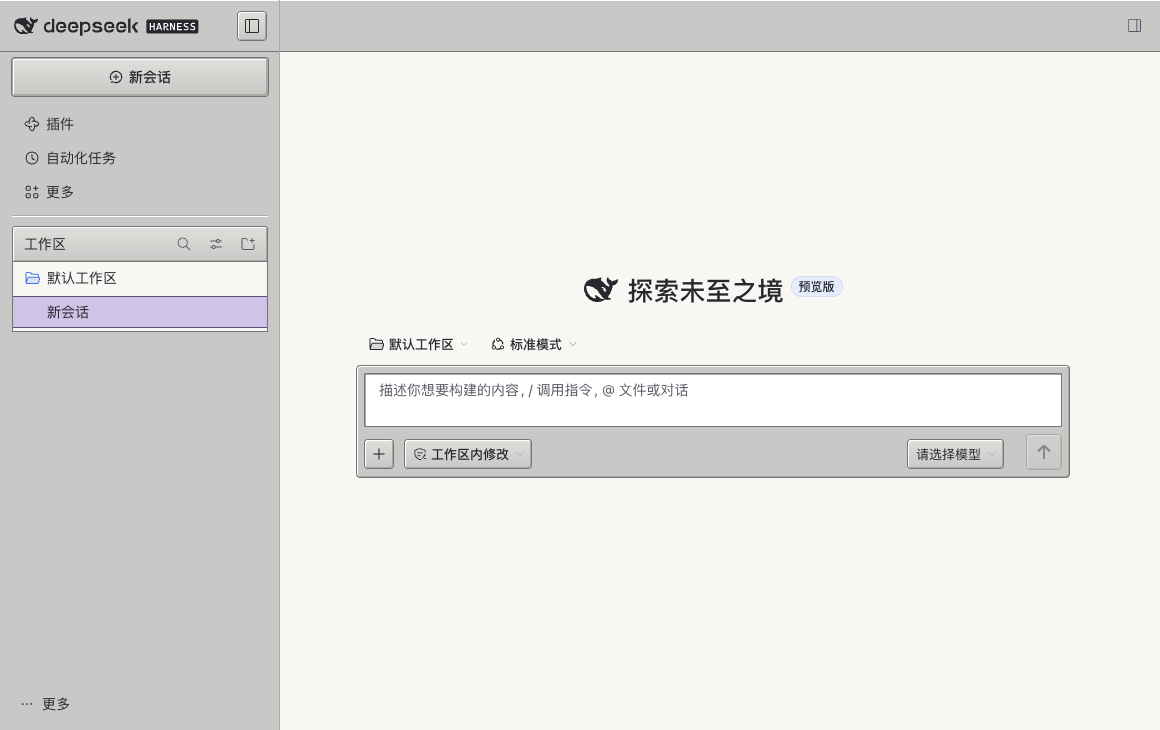
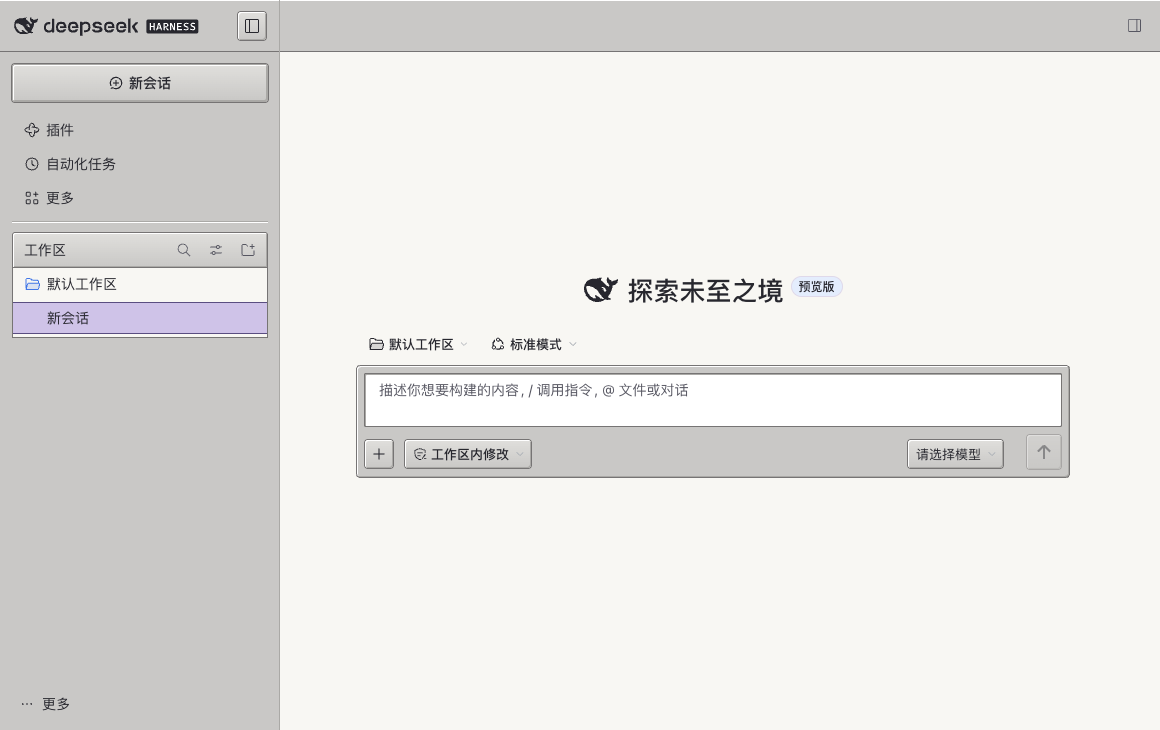
Align collapsed sidebar rail and balance new-chat spacing on web

Changed region(s): [[0.0, 0.0603, 0.2483, 0.4822]]

diff --git a/client.js b/client.js
@@ -2,7 +2,7 @@
 window.__ModuleLoader__.load({
   id: 'dsh-platinum-theme',
   factory() {
-    const css = "html[data-dsh-platinum] body {\n  --platinum-paper: #f8f7f3;\n  --platinum-panel: #c9c8c6;\n  --platinum-raised: #e0dfdc;\n  --platinum-composer: #fff;\n  --platinum-rule: #aaa9a6;\n  --platinum-edge: #767474;\n  --platinum-glint: #fff;\n  --platinum-ink: #27272e;\n  --platinum-muted: #565661;\n  --platinum-accent: #524777;\n  --platinum-action: #5a4e81;\n  --platinum-button: #5a4e81;\n  --platinum-accent-hover: #493d70;\n  --platinum-selection: #cfc3e8;\n  --platinum-hover: #dfd9ea;\n  --platinum-on-accent: #fff;\n  --platinum-groove: repeating-linear-gradient(to bottom,\n    var(--platinum-edge) 0 1px, var(--platinum-glint) 1px 2px, transparent 2px 3px);\n  --platinum-face: linear-gradient(180deg, var(--platinum-raised), var(--platinum-panel));\n  --platinum-bevel: inset 1px 1px var(--platinum-glint), inset -1px -1px var(--platinum-rule);\n  --dsh-scrollbar-width: 12px;\n}\n\nhtml[data-dsh-platinum] body[data-ds-dark-theme] {\n  --platinum-paper: #252528;\n  --platinum-panel: #333338;\n  --platinum-raised: #434349;\n  --platinum-composer: #292b30;\n  --platinum-rule: #505059;\n  --platinum-edge: #72717b;\n  --platinum-glint: #595963;\n  --platinum-ink: #eeedf0;\n  --platinum-muted: #babac6;\n  --platinum-accent: #c1b5e2;\n  --platinum-action: #a598c5;\n  --platinum-button: #675686;\n  --platinum-accent-hover: #746298;\n  --platinum-selection: #514364;\n  --platinum-hover: #36333f;\n}\n\nhtml[data-dsh-platinum] {\n  & header[data-window-drag]:has([data-conversation-header-leading]),\n  & [data-window-drag]:has(> [data-sidebar-toggle]) {\n    background: var(--platinum-panel);\n    border-bottom: 1px solid var(--platinum-edge);\n    box-shadow: inset 0 1px var(--platinum-glint);\n  }\n\n  /* Both macOS desktop and web sidebars share a 52px title baseline,\n     extending to match the conversation tab bar height when present. */\n  & header[data-window-drag]:has([data-conversation-header-leading]) {\n    min-height: 52px;\n    align-content: start;\n  }\n\n  /* Extend the macOS strip to the tab baseline and keep its toggle at title-row height. */\n  &[data-platform=\"darwin\"]:has([data-conversation-tabs]) [data-window-drag]:has(> [data-sidebar-toggle]) {\n    --platinum-sidebar-strip-extra: max(0px, calc(var(--platinum-conversation-header-height, 52px) - 52px));\n    height: calc(52px + var(--platinum-sidebar-strip-extra));\n    padding-bottom: calc(2px + var(--platinum-sidebar-strip-extra));\n\n    & + [data-window-drag] {\n      margin-top: 0;\n    }\n  }\n\n  &:not([data-platform=\"darwin\"]) [data-window-drag]:has(> [data-sidebar-toggle]) {\n    box-sizing: border-box;\n    height: var(--platinum-conversation-header-height, 52px);\n    margin: -6px calc(-1 * var(--dsh-sidebar-inline-padding, 8px)) 6px;\n    padding: 0 calc(var(--dsh-sidebar-inline-padding, 8px) + 6px);\n    align-items: center;\n  }\n\n  /* The flexible title group has room for the ridges after its real controls,\n     including blank conversations before the breadcrumb nav mounts. */\n  & header[data-window-drag] :is(\n    :has(> nav[aria-label]):has(+ * + [data-conversation-header-corner]),\n    [data-conversation-header-leading] + :not([data-conversation-header-corner]):has(+ [data-conversation-header-corner], + * + [data-conversation-header-corner]),\n    [data-conversation-header-leading]:has(+ [data-conversation-header-corner])\n  ) {\n    display: flex;\n    align-items: center;\n    flex: 1 1 0;\n    min-width: 0;\n\n    & > nav {\n      font-family: Geneva, Chicago, Tahoma, sans-serif;\n      font-weight: 700;\n    }\n\n    &::after {\n      content: '';\n      flex: 1 1 0;\n      min-width: 0;\n      height: 10px;\n      margin-inline: 4px 12px;\n      background: var(--platinum-groove);\n      pointer-events: none;\n    }\n  }\n\n  & [data-conversation-tabs] {\n    gap: 3px;\n\n    & [role=\"tab\"] {\n      margin: 0;\n      min-height: 25px;\n      padding: 3px 11px 4px;\n      border: 1px solid var(--platinum-edge);\n      border-bottom: 0;\n      border-radius: 4px 4px 0 0;\n      background: var(--platinum-face);\n      box-shadow: var(--platinum-bevel);\n      color: var(--platinum-ink);\n      font-weight: 600;\n    }\n\n    & [role=\"tab\"][aria-selected=\"true\"] {\n      background: var(--platinum-paper);\n      box-shadow: inset 1px 1px var(--platinum-glint), 0 1px var(--platinum-paper);\n      color: var(--platinum-accent);\n    }\n\n    & [role=\"tab\"]::after {\n      content: none;\n    }\n  }\n\n  & [data-sidebar-scrollport] {\n    & > nav {\n      margin-inline: 4px;\n      padding-bottom: 7px;\n      border-bottom: 1px solid var(--platinum-rule);\n      box-shadow: 0 1px var(--platinum-glint);\n    }\n\n    & [data-sidebar-workspace-header] {\n      margin-inline: 4px;\n      /* The native workspace toolbar otherwise extends into the sidebar gutter. */\n      margin-inline-end: 4px !important;\n      border: 1px solid var(--platinum-edge);\n      border-radius: 3px 3px 0 0;\n      box-shadow: var(--platinum-bevel);\n    }\n\n    & [data-sidebar-list-area] {\n      --dsh-scrollbar-width: 10px;\n      margin-right: 4px;\n      padding-right: 0;\n      scrollbar-gutter: auto;\n    }\n\n    & [role=\"tree\"] {\n      --dsh-sidebar-paint-inset: 0px;\n      margin-inline: 4px 0;\n      background: var(--platinum-paper);\n      border: 1px solid var(--platinum-edge);\n      border-top: 0;\n      padding-block-end: 3px;\n    }\n\n    & [role=\"treeitem\"] {\n      border-radius: 0;\n      padding-inline-end: 11px;\n    }\n  }\n\n  & [data-sidebar-scrollport] :is([aria-current=\"page\"], [aria-selected=\"true\"]) {\n    background: var(--platinum-selection);\n    border-radius: 0;\n    box-shadow: inset 0 1px var(--platinum-action), inset 0 -1px var(--platinum-action);\n  }\n\n  & [data-sidebar-workspace-header],\n  & [data-sidebar-toggle],\n  & [data-sidebar-opener],\n  & [data-slot=\"sidebar.session.action\"] button[aria-label],\n  & [data-composer-card] > :last-child button:not([role=\"menuitem\"]) {\n    background: var(--platinum-face);\n    color: var(--platinum-ink);\n    border-radius: 3px;\n    corner-shape: round;\n    box-shadow: 0 0 0 1px var(--platinum-edge), var(--platinum-bevel);\n  }\n\n  & :is([data-sidebar-toggle], [data-sidebar-opener], [data-slot=\"sidebar.session.action\"] button[aria-label], [data-composer-card] > :last-child button):active:not(:disabled) {\n    background: var(--platinum-selection);\n    box-shadow: inset 1px 1px var(--platinum-edge), inset -1px -1px var(--platinum-glint);\n  }\n\n  /* Classic Platinum default-button recessed outer ring for the primary send action. */\n  & [data-composer-card] > :last-child > :is(button:last-child, :last-child > button:last-child, :last-child > :last-child > button:last-child):not([role=\"menuitem\"]) {\n    box-shadow: 0 0 0 1px var(--platinum-edge), 0 0 0 2px var(--platinum-panel),\n      0 0 0 3px var(--platinum-rule), 1px 1px 0 3px var(--platinum-glint), var(--platinum-bevel);\n\n    &:not(:disabled) {\n      color: var(--platinum-accent);\n      box-shadow: 0 0 0 1px var(--platinum-action), 0 0 0 2px var(--platinum-panel),\n        0 0 0 3px var(--platinum-edge), 1px 1px 0 3px var(--platinum-glint), var(--platinum-bevel);\n    }\n\n    &:hover:not(:disabled) {\n      background: var(--platinum-hover);\n    }\n\n    &:active:not(:disabled) {\n      background: var(--platinum-selection);\n      box-shadow: 0 0 0 1px var(--platinum-action), 0 0 0 2px var(--platinum-panel),\n        0 0 0 3px var(--platinum-edge), 1px 1px 0 3px var(--platinum-glint),\n        inset 1px 1px var(--platinum-edge), inset -1px -1px var(--platinum-glint);\n    }\n  }\n\n  & [data-composer-card] {\n    background: var(--platinum-panel);\n    border-radius: 4px;\n    box-shadow: 0 0 0 1px var(--platinum-edge), var(--platinum-bevel);\n    gap: 9px;\n\n    & > [data-input-scroll] {\n      margin-inline: 8px;\n      background: var(--platinum-composer);\n      border-radius: 1px;\n      box-shadow: 0 0 0 1px var(--platinum-edge), inset 1px 1px var(--platinum-rule),\n        inset -1px -1px var(--platinum-glint);\n    }\n\n    & > [data-input-scroll]:focus-within {\n      outline: 1px solid var(--platinum-accent);\n    }\n\n    & [data-composer-placeholder] {\n      color: var(--platinum-muted);\n    }\n  }\n\n  & [data-composer-dock]:not(:empty) {\n    box-sizing: border-box;\n    width: 100%;\n    max-width: var(--dsh-composer-card-max-width, 100%);\n    border: 1px solid var(--platinum-rule);\n    border-top: 0;\n    background: var(--platinum-raised);\n    box-shadow: inset 0 1px var(--platinum-glint);\n  }\n\n  & :is([role=\"dialog\"], [role=\"menu\"], [role=\"listbox\"]):not([data-shortcut-modal=\"sidebar\"]) {\n    border-radius: 3px;\n    box-shadow: 0 0 0 1px var(--platinum-edge), var(--platinum-bevel), 2px 2px rgb(0 0 0 / 24%);\n  }\n\n  & :is(button[class*=\"_outline_\"], button[class*=\"secondaryButton\"]):not([role=\"switch\"], [role=\"tab\"], [role=\"menuitem\"]) {\n    border: none;\n    border-radius: 3px;\n    background: var(--platinum-face);\n    color: var(--platinum-ink);\n    box-shadow: 0 0 0 1px var(--platinum-edge), var(--platinum-bevel);\n\n    &:hover:not(:disabled) {\n      background: var(--platinum-hover);\n    }\n\n    &:active:not(:disabled) {\n      background: var(--platinum-selection);\n      box-shadow: 0 0 0 1px var(--platinum-edge), inset 1px 1px var(--platinum-edge), inset -1px -1px var(--platinum-glint);\n    }\n  }\n\n  & :is(button[class*=\"_primary_\"], button[class*=\"primaryButton\"]):not([class*=\"dangerButton\"], [role=\"switch\"], [role=\"tab\"], [role=\"menuitem\"]) {\n    border: none;\n    border-radius: 3px;\n    background: linear-gradient(180deg, color-mix(in srgb, var(--platinum-button) 88%, #fff), var(--platinum-button));\n    color: var(--platinum-on-accent);\n    box-shadow: 0 0 0 1px var(--platinum-action), 0 0 0 2px var(--platinum-panel),\n      0 0 0 3px var(--platinum-edge), 1px 1px 0 3px var(--platinum-glint),\n      inset 1px 1px rgb(255 255 255 / 26%), inset -1px -1px rgb(0 0 0 / 24%);\n\n    &:hover:not(:disabled) {\n      background: var(--platinum-accent-hover);\n    }\n\n    &:active:not(:disabled) {\n      background: var(--platinum-accent-hover);\n      box-shadow: 0 0 0 1px var(--platinum-action), 0 0 0 2px var(--platinum-panel),\n        0 0 0 3px var(--platinum-edge), inset 1px 1px rgb(0 0 0 / 35%), inset -1px -1px rgb(255 255 255 / 18%);\n    }\n  }\n}\n\nhtml[data-dsh-platinum] [data-shortcut-modal=\"settings\"] {\n  --dsw-alias-settings-card-fill: var(--platinum-raised);\n  --dsw-alias-settings-card-stroke: var(--platinum-edge);\n  --dsw-radius-md: 3px;\n  --dsw-radius-xl: 3px;\n\n  & > [id]:first-child,\n  & > nav + div {\n    background: var(--platinum-face);\n    border-bottom: 1px solid var(--platinum-edge);\n    box-shadow: inset 0 1px var(--platinum-glint);\n  }\n\n  & > [id]:first-child {\n    display: flex;\n    align-items: center;\n    gap: 10px;\n    min-width: 0;\n    padding: 7px 12px;\n    font-weight: 700;\n\n    &::after {\n      content: '';\n      flex: 1 1 auto;\n      height: 10px;\n      background: var(--platinum-groove);\n      pointer-events: none;\n    }\n  }\n\n  & > nav + div {\n    height: auto;\n    align-items: center;\n    padding: 5px 9px;\n  }\n\n  & > nav + div button,\n  & section:has([data-avatar-status]) a {\n    border-radius: 3px;\n    box-shadow: 0 0 0 1px var(--platinum-edge), var(--platinum-bevel);\n  }\n\n  & > nav + div button {\n    background: var(--platinum-face);\n  }\n\n  & > nav {\n    margin: 9px 5px 11px 10px;\n    padding: 2px;\n    border: 1px solid var(--platinum-edge);\n    background: var(--platinum-paper);\n    box-shadow: inset 1px 1px var(--platinum-rule);\n  }\n\n  & > nav > div {\n    gap: 0;\n  }\n\n  & > nav button {\n    min-height: 31px;\n    height: auto;\n    padding-block: 4px;\n    border-radius: 0;\n  }\n\n  & > nav button[aria-current=\"true\"] {\n    background: var(--platinum-selection);\n    box-shadow: inset 0 1px var(--platinum-action), inset 0 -1px var(--platinum-action);\n    font-weight: 600;\n  }\n\n  & > :last-child {\n    margin: 9px 10px 11px 5px;\n    padding: 12px;\n    border: 1px solid var(--platinum-edge);\n    background: var(--platinum-paper);\n    box-shadow: inset 1px 1px var(--platinum-rule);\n  }\n\n  & section:has([data-avatar-status]) > div:where(:first-child, :last-child) {\n    border-radius: 3px;\n    box-shadow: var(--platinum-bevel);\n  }\n\n  & section:has([data-avatar-status]) a {\n    padding-inline: 10px;\n  }\n\n  & section:has([data-avatar-status]) a:only-of-type,\n  & section:has([data-avatar-status]) a:has(+ a) {\n    background: var(--platinum-face);\n  }\n\n  & section:has([data-avatar-status]) a:only-of-type {\n    padding-block: 4px;\n  }\n\n  & section:has([data-avatar-status]) a + a {\n    color: var(--platinum-on-accent);\n  }\n\n  & button[class*=\"addButton\"] {\n    border: 1px dashed var(--platinum-edge);\n    border-radius: 3px;\n    background: var(--platinum-paper);\n    box-shadow: inset 1px 1px var(--platinum-rule);\n\n    &:hover:not(:disabled) {\n      background: var(--platinum-hover);\n    }\n  }\n\n  & button[class*=\"_selector\"],\n  & > :last-child button[class*=\"_button\"] {\n    border: none;\n    border-radius: 3px;\n    background: var(--platinum-face);\n    color: var(--platinum-ink);\n    box-shadow: 0 0 0 1px var(--platinum-edge), var(--platinum-bevel);\n\n    &:hover:not(:disabled) {\n      background: var(--platinum-hover);\n    }\n\n    &:is(:active, [aria-expanded=\"true\"]):not(:disabled) {\n      background: var(--platinum-selection);\n      box-shadow: 0 0 0 1px var(--platinum-edge), inset 1px 1px var(--platinum-edge), inset -1px -1px var(--platinum-glint);\n    }\n  }\n\n  & [class*=\"_stepper\"] {\n    border-radius: 2px;\n    background: var(--platinum-composer);\n    box-shadow: inset 1px 1px var(--platinum-rule), 0 0 0 1px var(--platinum-edge);\n  }\n\n  & button[class*=\"_arrow\"] {\n    border-radius: 2px;\n    background: var(--platinum-face);\n    box-shadow: 0 0 0 1px var(--platinum-edge), var(--platinum-bevel);\n\n    &:hover:not(:disabled) {\n      background: var(--platinum-hover);\n    }\n  }\n\n  & button[class*=\"_expander\"] {\n    border-radius: 3px;\n\n    &:hover:not(:disabled) {\n      background: var(--platinum-hover);\n    }\n  }\n}\n\nhtml[data-dsh-platinum] {\n  & [data-sidebar-right-panel] {\n    & [data-dockkit-strip] {\n      background: var(--platinum-panel);\n      border-bottom: 1px solid var(--platinum-edge);\n      box-shadow: inset 0 1px var(--platinum-glint);\n    }\n\n    & [data-dockkit-tab] {\n      background: var(--platinum-face);\n      border-radius: 4px 4px 0 0;\n      box-shadow: 0 0 0 1px var(--platinum-edge), var(--platinum-bevel);\n    }\n\n    & [data-dockkit-tab][aria-selected=\"true\"] {\n      background: var(--platinum-paper);\n      color: var(--platinum-accent);\n    }\n\n    & :is([data-dockkit-add-tab], [data-dockkit-split-button], [data-sidebar-right-mode], [data-sidebar-right-toggle]) {\n      background: var(--platinum-face);\n      border-radius: 3px;\n      box-shadow: 0 0 0 1px var(--platinum-edge), var(--platinum-bevel);\n    }\n  }\n\n  & [data-sidebar-right-guide] :is(button, [role=\"button\"]):not([role=\"menuitem\"]) {\n    background: var(--platinum-face);\n    border-radius: 3px;\n    box-shadow: var(--platinum-bevel);\n\n    &:hover { background: var(--platinum-hover); }\n    &:active { box-shadow: inset 1px 1px var(--platinum-edge); }\n  }\n\n  & :is([data-files-page], [data-files-root]) {\n    & > :has(> :is([data-files-path], [data-files-reload])) {\n      background: var(--platinum-raised);\n      box-shadow: inset 0 -1px var(--platinum-rule);\n    }\n\n    & :is([data-files-reload], [data-files-auto-refresh], [data-files-search-toggle]) {\n      background: var(--platinum-face);\n      border-radius: 3px;\n      box-shadow: var(--platinum-bevel);\n    }\n\n    & :has(> [data-files-search]) {\n      background: var(--platinum-composer);\n      border-radius: 2px;\n      box-shadow: inset 1px 1px var(--platinum-rule), 0 0 0 1px var(--platinum-edge);\n    }\n\n    & :is([data-files-search], input[type=\"search\"])::placeholder { color: var(--platinum-muted); }\n\n    & input[type=\"search\"]:not([data-files-search]) {\n      color: var(--platinum-ink);\n      background: var(--platinum-composer);\n      border-radius: 2px;\n      box-shadow: inset 1px 1px var(--platinum-rule), 0 0 0 1px var(--platinum-edge);\n    }\n\n    & [data-files-entry] > :first-child { border-radius: 0; }\n  }\n\n  & :is([data-plugin-header-part=\"tabs\"] [role=\"tablist\"], [data-testid=\"task-manager-page\"] [role=\"group\"]:has(> button[aria-pressed])) {\n    border-radius: 3px;\n    background: var(--platinum-panel);\n    box-shadow: inset 1px 1px var(--platinum-rule), 0 0 0 1px var(--platinum-edge);\n\n    & > button {\n      border-radius: 2px;\n\n      &[aria-pressed=\"true\"], &[aria-selected=\"true\"] {\n        background: var(--platinum-face);\n        color: var(--platinum-ink);\n        box-shadow: 0 0 0 1px var(--platinum-edge), var(--platinum-bevel);\n      }\n    }\n  }\n\n  & :is(input, textarea)::placeholder {\n    color: var(--platinum-muted);\n    opacity: 1;\n  }\n\n  & button[role=\"switch\"][aria-checked] {\n    border-radius: 3px;\n    box-shadow: inset 1px 1px var(--platinum-edge);\n\n    & > span {\n      border-radius: 2px;\n      background: var(--platinum-face);\n      box-shadow: var(--platinum-bevel);\n    }\n  }\n\n  & ::-webkit-scrollbar {\n    width: var(--dsh-scrollbar-width, 12px);\n    height: var(--dsh-scrollbar-width, 12px);\n  }\n\n  & ::-webkit-scrollbar-track {\n    background: var(--platinum-panel);\n    box-shadow: inset 1px 1px var(--platinum-edge), inset -1px -1px var(--platinum-glint),\n      inset 0 0 0 1px var(--platinum-rule);\n  }\n\n  & ::-webkit-scrollbar-thumb {\n    min-height: 24px;\n    min-width: 24px;\n    border: 1px solid var(--platinum-edge);\n    border-radius: 0;\n    background: var(--platinum-groove) center / 4px 7px no-repeat, var(--platinum-face);\n    box-shadow: var(--platinum-bevel);\n\n    &:horizontal {\n      background: linear-gradient(90deg, var(--platinum-raised), var(--platinum-panel));\n    }\n\n    &:hover {\n      background: var(--platinum-groove) center / 4px 7px no-repeat, var(--platinum-hover);\n\n      &:horizontal {\n        background: var(--platinum-hover);\n      }\n    }\n\n    &:active {\n      background: var(--platinum-groove) center / 4px 7px no-repeat, var(--platinum-selection);\n      box-shadow: inset 1px 1px var(--platinum-edge), inset -1px -1px var(--platinum-glint);\n\n      &:horizontal {\n        background: var(--platinum-selection);\n      }\n    }\n  }\n\n  & ::-webkit-scrollbar-corner {\n    background: var(--platinum-panel);\n    box-shadow: inset 1px 1px var(--platinum-edge);\n  }\n}\n\n@media (forced-colors: active) {\n  html[data-dsh-platinum] :is([data-composer-card], [role=\"dialog\"], [role=\"menu\"], [role=\"listbox\"]) {\n    outline: 1px solid CanvasText;\n  }\n}\n";
+    const css = "html[data-dsh-platinum] body {\n  --platinum-paper: #f8f7f3;\n  --platinum-panel: #c9c8c6;\n  --platinum-raised: #e0dfdc;\n  --platinum-composer: #fff;\n  --platinum-rule: #aaa9a6;\n  --platinum-edge: #767474;\n  --platinum-glint: #fff;\n  --platinum-ink: #27272e;\n  --platinum-muted: #565661;\n  --platinum-accent: #524777;\n  --platinum-action: #5a4e81;\n  --platinum-button: #5a4e81;\n  --platinum-accent-hover: #493d70;\n  --platinum-selection: #cfc3e8;\n  --platinum-hover: #dfd9ea;\n  --platinum-on-accent: #fff;\n  --platinum-groove: repeating-linear-gradient(to bottom,\n    var(--platinum-edge) 0 1px, var(--platinum-glint) 1px 2px, transparent 2px 3px);\n  --platinum-face: linear-gradient(180deg, var(--platinum-raised), var(--platinum-panel));\n  --platinum-bevel: inset 1px 1px var(--platinum-glint), inset -1px -1px var(--platinum-rule);\n  --dsh-scrollbar-width: 12px;\n}\n\nhtml[data-dsh-platinum] body[data-ds-dark-theme] {\n  --platinum-paper: #252528;\n  --platinum-panel: #333338;\n  --platinum-raised: #434349;\n  --platinum-composer: #292b30;\n  --platinum-rule: #505059;\n  --platinum-edge: #72717b;\n  --platinum-glint: #595963;\n  --platinum-ink: #eeedf0;\n  --platinum-muted: #babac6;\n  --platinum-accent: #c1b5e2;\n  --platinum-action: #a598c5;\n  --platinum-button: #675686;\n  --platinum-accent-hover: #746298;\n  --platinum-selection: #514364;\n  --platinum-hover: #36333f;\n}\n\nhtml[data-dsh-platinum] {\n  & header[data-window-drag]:has([data-conversation-header-leading]),\n  & [data-window-drag]:has(> [data-sidebar-toggle]) {\n    background: var(--platinum-panel);\n    border-bottom: 1px solid var(--platinum-edge);\n    box-shadow: inset 0 1px var(--platinum-glint);\n  }\n\n  /* Both macOS desktop and web sidebars share a 52px title baseline,\n     extending to match the conversation tab bar height when present. */\n  & header[data-window-drag]:has([data-conversation-header-leading]) {\n    min-height: 52px;\n    align-content: start;\n  }\n\n  /* Extend the macOS strip to the tab baseline and keep its toggle at title-row height. */\n  &[data-platform=\"darwin\"]:has([data-conversation-tabs]) [data-window-drag]:has(> [data-sidebar-toggle]) {\n    --platinum-sidebar-strip-extra: max(0px, calc(var(--platinum-conversation-header-height, 52px) - 52px));\n    height: calc(52px + var(--platinum-sidebar-strip-extra));\n    padding-bottom: calc(2px + var(--platinum-sidebar-strip-extra));\n\n    & + [data-window-drag] {\n      margin-top: 0;\n    }\n  }\n\n  &:not([data-platform=\"darwin\"]) [data-window-drag]:has(> [data-sidebar-toggle]) {\n    box-sizing: border-box;\n    height: var(--platinum-conversation-header-height, 52px);\n    margin: -6px calc(-1 * var(--dsh-sidebar-inline-padding, 8px)) 12px;\n    padding: 0 calc(var(--dsh-sidebar-inline-padding, 8px) + 6px);\n    align-items: center;\n  }\n\n  &:not([data-platform=\"darwin\"]) [class*=\"collapsed\"]:has(> button[data-sidebar-toggle]) {\n    position: relative;\n    padding-top: 0;\n\n    &::before {\n      content: '';\n      position: absolute;\n      inset: 0 0 auto;\n      height: var(--platinum-conversation-header-height, 52px);\n      background: var(--platinum-panel);\n      border-bottom: 1px solid var(--platinum-edge);\n      box-shadow: inset 0 1px var(--platinum-glint);\n      pointer-events: none;\n    }\n\n    & > button[data-sidebar-toggle] {\n      position: relative;\n      z-index: 1;\n      margin-top: 9px;\n      margin-bottom: calc(var(--platinum-conversation-header-height, 52px) - 52px + 18px);\n    }\n  }\n\n  /* The flexible title group has room for the ridges after its real controls,\n     including blank conversations before the breadcrumb nav mounts. */\n  & header[data-window-drag] :is(\n    :has(> nav[aria-label]):has(+ * + [data-conversation-header-corner]),\n    [data-conversation-header-leading] + :not([data-conversation-header-corner]):has(+ [data-conversation-header-corner], + * + [data-conversation-header-corner]),\n    [data-conversation-header-leading]:has(+ [data-conversation-header-corner])\n  ) {\n    display: flex;\n    align-items: center;\n    flex: 1 1 0;\n    min-width: 0;\n\n    & > nav {\n      font-family: Geneva, Chicago, Tahoma, sans-serif;\n      font-weight: 700;\n    }\n\n    &::after {\n      content: '';\n      flex: 1 1 0;\n      min-width: 0;\n      height: 10px;\n      margin-inline: 4px 12px;\n      background: var(--platinum-groove);\n      pointer-events: none;\n    }\n  }\n\n  & [data-conversation-tabs] {\n    gap: 3px;\n\n    & [role=\"tab\"] {\n      margin: 0;\n      min-height: 25px;\n      padding: 3px 11px 4px;\n      border: 1px solid var(--platinum-edge);\n      border-bottom: 0;\n      border-radius: 4px 4px 0 0;\n      background: var(--platinum-face);\n      box-shadow: var(--platinum-bevel);\n      color: var(--platinum-ink);\n      font-weight: 600;\n    }\n\n    & [role=\"tab\"][aria-selected=\"true\"] {\n      background: var(--platinum-paper);\n      box-shadow: inset 1px 1px var(--platinum-glint), 0 1px var(--platinum-paper);\n      color: var(--platinum-accent);\n    }\n\n    & [role=\"tab\"]::after {\n      content: none;\n    }\n  }\n\n  & [data-sidebar-scrollport] {\n    & > nav {\n      margin-inline: 4px;\n      padding-bottom: 7px;\n      border-bottom: 1px solid var(--platinum-rule);\n      box-shadow: 0 1px var(--platinum-glint);\n    }\n\n    & [data-sidebar-workspace-header] {\n      margin-inline: 4px;\n      /* The native workspace toolbar otherwise extends into the sidebar gutter. */\n      margin-inline-end: 4px !important;\n      border: 1px solid var(--platinum-edge);\n      border-radius: 3px 3px 0 0;\n      box-shadow: var(--platinum-bevel);\n    }\n\n    & [data-sidebar-list-area] {\n      --dsh-scrollbar-width: 10px;\n      margin-right: 4px;\n      padding-right: 0;\n      scrollbar-gutter: auto;\n    }\n\n    & [role=\"tree\"] {\n      --dsh-sidebar-paint-inset: 0px;\n      margin-inline: 4px 0;\n      background: var(--platinum-paper);\n      border: 1px solid var(--platinum-edge);\n      border-top: 0;\n      padding-block-end: 3px;\n    }\n\n    & [role=\"treeitem\"] {\n      border-radius: 0;\n      padding-inline-end: 11px;\n    }\n  }\n\n  & [data-sidebar-scrollport] :is([aria-current=\"page\"], [aria-selected=\"true\"]) {\n    background: var(--platinum-selection);\n    border-radius: 0;\n    box-shadow: inset 0 1px var(--platinum-action), inset 0 -1px var(--platinum-action);\n  }\n\n  & [data-sidebar-workspace-header],\n  & [data-sidebar-toggle],\n  & [data-sidebar-opener],\n  & [data-slot=\"sidebar.session.action\"] button[aria-label],\n  & [data-composer-card] > :last-child button:not([role=\"menuitem\"]) {\n    background: var(--platinum-face);\n    color: var(--platinum-ink);\n    border-radius: 3px;\n    corner-shape: round;\n    box-shadow: 0 0 0 1px var(--platinum-edge), var(--platinum-bevel);\n  }\n\n  & :is([data-sidebar-toggle], [data-sidebar-opener], [data-slot=\"sidebar.session.action\"] button[aria-label], [data-composer-card] > :last-child button):active:not(:disabled) {\n    background: var(--platinum-selection);\n    box-shadow: inset 1px 1px var(--platinum-edge), inset -1px -1px var(--platinum-glint);\n  }\n\n  /* Classic Platinum default-button recessed outer ring for the primary send action. */\n  & [data-composer-card] > :last-child > :is(button:last-child, :last-child > button:last-child, :last-child > :last-child > button:last-child):not([role=\"menuitem\"]) {\n    box-shadow: 0 0 0 1px var(--platinum-edge), 0 0 0 2px var(--platinum-panel),\n      0 0 0 3px var(--platinum-rule), 1px 1px 0 3px var(--platinum-glint), var(--platinum-bevel);\n\n    &:not(:disabled) {\n      color: var(--platinum-accent);\n      box-shadow: 0 0 0 1px var(--platinum-action), 0 0 0 2px var(--platinum-panel),\n        0 0 0 3px var(--platinum-edge), 1px 1px 0 3px var(--platinum-glint), var(--platinum-bevel);\n    }\n\n    &:hover:not(:disabled) {\n      background: var(--platinum-hover);\n    }\n\n    &:active:not(:disabled) {\n      background: var(--platinum-selection);\n      box-shadow: 0 0 0 1px var(--platinum-action), 0 0 0 2px var(--platinum-panel),\n        0 0 0 3px var(--platinum-edge), 1px 1px 0 3px var(--platinum-glint),\n        inset 1px 1px var(--platinum-edge), inset -1px -1px var(--platinum-glint);\n    }\n  }\n\n  & [data-composer-card] {\n    background: var(--platinum-panel);\n    border-radius: 4px;\n    box-shadow: 0 0 0 1px var(--platinum-edge), var(--platinum-bevel);\n    gap: 9px;\n\n    & > [data-input-scroll] {\n      margin-inline: 8px;\n      background: var(--platinum-composer);\n      border-radius: 1px;\n      box-shadow: 0 0 0 1px var(--platinum-edge), inset 1px 1px var(--platinum-rule),\n        inset -1px -1px var(--platinum-glint);\n    }\n\n    & > [data-input-scroll]:focus-within {\n      outline: 1px solid var(--platinum-accent);\n    }\n\n    & [data-composer-placeholder] {\n      color: var(--platinum-muted);\n    }\n  }\n\n  & [data-composer-dock]:not(:empty) {\n    box-sizing: border-box;\n    width: 100%;\n    max-width: var(--dsh-composer-card-max-width, 100%);\n    border: 1px solid var(--platinum-rule);\n    border-top: 0;\n    background: var(--platinum-raised);\n    box-shadow: inset 0 1px var(--platinum-glint);\n  }\n\n  & :is([role=\"dialog\"], [role=\"menu\"], [role=\"listbox\"]):not([data-shortcut-modal=\"sidebar\"]) {\n    border-radius: 3px;\n    box-shadow: 0 0 0 1px var(--platinum-edge), var(--platinum-bevel), 2px 2px rgb(0 0 0 / 24%);\n  }\n\n  & :is(button[class*=\"_outline_\"], button[class*=\"secondaryButton\"]):not([role=\"switch\"], [role=\"tab\"], [role=\"menuitem\"]) {\n    border: none;\n    border-radius: 3px;\n    background: var(--platinum-face);\n    color: var(--platinum-ink);\n    box-shadow: 0 0 0 1px var(--platinum-edge), var(--platinum-bevel);\n\n    &:hover:not(:disabled) {\n      background: var(--platinum-hover);\n    }\n\n    &:active:not(:disabled) {\n      background: var(--platinum-selection);\n      box-shadow: 0 0 0 1px var(--platinum-edge), inset 1px 1px var(--platinum-edge), inset -1px -1px var(--platinum-glint);\n    }\n  }\n\n  & :is(button[class*=\"_primary_\"], button[class*=\"primaryButton\"]):not([class*=\"dangerButton\"], [role=\"switch\"], [role=\"tab\"], [role=\"menuitem\"]) {\n    border: none;\n    border-radius: 3px;\n    background: linear-gradient(180deg, color-mix(in srgb, var(--platinum-button) 88%, #fff), var(--platinum-button));\n    color: var(--platinum-on-accent);\n    box-shadow: 0 0 0 1px var(--platinum-action), 0 0 0 2px var(--platinum-panel),\n      0 0 0 3px var(--platinum-edge), 1px 1px 0 3px var(--platinum-glint),\n      inset 1px 1px rgb(255 255 255 / 26%), inset -1px -1px rgb(0 0 0 / 24%);\n\n    &:hover:not(:disabled) {\n      background: var(--platinum-accent-hover);\n    }\n\n    &:active:not(:disabled) {\n      background: var(--platinum-accent-hover);\n      box-shadow: 0 0 0 1px var(--platinum-action), 0 0 0 2px var(--platinum-panel),\n        0 0 0 3px var(--platinum-edge), inset 1px 1px rgb(0 0 0 / 35%), inset -1px -1px rgb(255 255 255 / 18%);\n    }\n  }\n}\n\nhtml[data-dsh-platinum] [data-shortcut-modal=\"settings\"] {\n  --dsw-alias-settings-card-fill: var(--platinum-raised);\n  --dsw-alias-settings-card-stroke: var(--platinum-edge);\n  --dsw-radius-md: 3px;\n  --dsw-radius-xl: 3px;\n\n  & > [id]:first-child,\n  & > nav + div {\n    background: var(--platinum-face);\n    border-bottom: 1px solid var(--platinum-edge);\n    box-shadow: inset 0 1px var(--platinum-glint);\n  }\n\n  & > [id]:first-child {\n    display: flex;\n    align-items: center;\n    gap: 10px;\n    min-width: 0;\n    padding: 7px 12px;\n    font-weight: 700;\n\n    &::after {\n      content: '';\n      flex: 1 1 auto;\n      height: 10px;\n      background: var(--platinum-groove);\n      pointer-events: none;\n    }\n  }\n\n  & > nav + div {\n    height: auto;\n    align-items: center;\n    padding: 5px 9px;\n  }\n\n  & > nav + div button,\n  & section:has([data-avatar-status]) a {\n    border-radius: 3px;\n    box-shadow: 0 0 0 1px var(--platinum-edge), var(--platinum-bevel);\n  }\n\n  & > nav + div button {\n    background: var(--platinum-face);\n  }\n\n  & > nav {\n    margin: 9px 5px 11px 10px;\n    padding: 2px;\n    border: 1px solid var(--platinum-edge);\n    background: var(--platinum-paper);\n    box-shadow: inset 1px 1px var(--platinum-rule);\n  }\n\n  & > nav > div {\n    gap: 0;\n  }\n\n  & > nav button {\n    min-height: 31px;\n    height: auto;\n    padding-block: 4px;\n    border-radius: 0;\n  }\n\n  & > nav button[aria-current=\"true\"] {\n    background: var(--platinum-selection);\n    box-shadow: inset 0 1px var(--platinum-action), inset 0 -1px var(--platinum-action);\n    font-weight: 600;\n  }\n\n  & > :last-child {\n    margin: 9px 10px 11px 5px;\n    padding: 12px;\n    border: 1px solid var(--platinum-edge);\n    background: var(--platinum-paper);\n    box-shadow: inset 1px 1px var(--platinum-rule);\n  }\n\n  & section:has([data-avatar-status]) > div:where(:first-child, :last-child) {\n    border-radius: 3px;\n    box-shadow: var(--platinum-bevel);\n  }\n\n  & section:has([data-avatar-status]) a {\n    padding-inline: 10px;\n  }\n\n  & section:has([data-avatar-status]) a:only-of-type,\n  & section:has([data-avatar-status]) a:has(+ a) {\n    background: var(--platinum-face);\n  }\n\n  & section:has([data-avatar-status]) a:only-of-type {\n    padding-block: 4px;\n  }\n\n  & section:has([data-avatar-status]) a + a {\n    color: var(--platinum-on-accent);\n  }\n\n  & button[class*=\"addButton\"] {\n    border: 1px dashed var(--platinum-edge);\n    border-radius: 3px;\n    background: var(--platinum-paper);\n    box-shadow: inset 1px 1px var(--platinum-rule);\n\n    &:hover:not(:disabled) {\n      background: var(--platinum-hover);\n    }\n  }\n\n  & button[class*=\"_selector\"],\n  & > :last-child button[class*=\"_button\"] {\n    border: none;\n    border-radius: 3px;\n    background: var(--platinum-face);\n    color: var(--platinum-ink);\n    box-shadow: 0 0 0 1px var(--platinum-edge), var(--platinum-bevel);\n\n    &:hover:not(:disabled) {\n      background: var(--platinum-hover);\n    }\n\n    &:is(:active, [aria-expanded=\"true\"]):not(:disabled) {\n      background: var(--platinum-selection);\n      box-shadow: 0 0 0 1px var(--platinum-edge), inset 1px 1px var(--platinum-edge), inset -1px -1px var(--platinum-glint);\n    }\n  }\n\n  & [class*=\"_stepper\"] {\n    border-radius: 2px;\n    background: var(--platinum-composer);\n    box-shadow: inset 1px 1px var(--platinum-rule), 0 0 0 1px var(--platinum-edge);\n  }\n\n  & button[class*=\"_arrow\"] {\n    border-radius: 2px;\n    background: var(--platinum-face);\n    box-shadow: 0 0 0 1px var(--platinum-edge), var(--platinum-bevel);\n\n    &:hover:not(:disabled) {\n      background: var(--platinum-hover);\n    }\n  }\n\n  & button[class*=\"_expander\"] {\n    border-radius: 3px;\n\n    &:hover:not(:disabled) {\n      background: var(--platinum-hover);\n    }\n  }\n}\n\nhtml[data-dsh-platinum] {\n  & [data-sidebar-right-panel] {\n    & [data-dockkit-strip] {\n      background: var(--platinum-panel);\n      border-bottom: 1px solid var(--platinum-edge);\n      box-shadow: inset 0 1px var(--platinum-glint);\n    }\n\n    & [data-dockkit-tab] {\n      background: var(--platinum-face);\n      border-radius: 4px 4px 0 0;\n      box-shadow: 0 0 0 1px var(--platinum-edge), var(--platinum-bevel);\n    }\n\n    & [data-dockkit-tab][aria-selected=\"true\"] {\n      background: var(--platinum-paper);\n      color: var(--platinum-accent);\n    }\n\n    & :is([data-dockkit-add-tab], [data-dockkit-split-button], [data-sidebar-right-mode], [data-sidebar-right-toggle]) {\n      background: var(--platinum-face);\n      border-radius: 3px;\n      box-shadow: 0 0 0 1px var(--platinum-edge), var(--platinum-bevel);\n    }\n  }\n\n  & [data-sidebar-right-guide] :is(button, [role=\"button\"]):not([role=\"menuitem\"]) {\n    background: var(--platinum-face);\n    border-radius: 3px;\n    box-shadow: var(--platinum-bevel);\n\n    &:hover { background: var(--platinum-hover); }\n    &:active { box-shadow: inset 1px 1px var(--platinum-edge); }\n  }\n\n  & :is([data-files-page], [data-files-root]) {\n    & > :has(> :is([data-files-path], [data-files-reload])) {\n      background: var(--platinum-raised);\n      box-shadow: inset 0 -1px var(--platinum-rule);\n    }\n\n    & :is([data-files-reload], [data-files-auto-refresh], [data-files-search-toggle]) {\n      background: var(--platinum-face);\n      border-radius: 3px;\n      box-shadow: var(--platinum-bevel);\n    }\n\n    & :has(> [data-files-search]) {\n      background: var(--platinum-composer);\n      border-radius: 2px;\n      box-shadow: inset 1px 1px var(--platinum-rule), 0 0 0 1px var(--platinum-edge);\n    }\n\n    & :is([data-files-search], input[type=\"search\"])::placeholder { color: var(--platinum-muted); }\n\n    & input[type=\"search\"]:not([data-files-search]) {\n      color: var(--platinum-ink);\n      background: var(--platinum-composer);\n      border-radius: 2px;\n      box-shadow: inset 1px 1px var(--platinum-rule), 0 0 0 1px var(--platinum-edge);\n    }\n\n    & [data-files-entry] > :first-child { border-radius: 0; }\n  }\n\n  & :is([data-plugin-header-part=\"tabs\"] [role=\"tablist\"], [data-testid=\"task-manager-page\"] [role=\"group\"]:has(> button[aria-pressed])) {\n    border-radius: 3px;\n    background: var(--platinum-panel);\n    box-shadow: inset 1px 1px var(--platinum-rule), 0 0 0 1px var(--platinum-edge);\n\n    & > button {\n      border-radius: 2px;\n\n      &[aria-pressed=\"true\"], &[aria-selected=\"true\"] {\n        background: var(--platinum-face);\n        color: var(--platinum-ink);\n        box-shadow: 0 0 0 1px var(--platinum-edge), var(--platinum-bevel);\n      }\n    }\n  }\n\n  & :is(input, textarea)::placeholder {\n    color: var(--platinum-muted);\n    opacity: 1;\n  }\n\n  & button[role=\"switch\"][aria-checked] {\n    border-radius: 3px;\n    box-shadow: inset 1px 1px var(--platinum-edge);\n\n    & > span {\n      border-radius: 2px;\n      background: var(--platinum-face);\n      box-shadow: var(--platinum-bevel);\n    }\n  }\n\n  & ::-webkit-scrollbar {\n    width: var(--dsh-scrollbar-width, 12px);\n    height: var(--dsh-scrollbar-width, 12px);\n  }\n\n  & ::-webkit-scrollbar-track {\n    background: var(--platinum-panel);\n    box-shadow: inset 1px 1px var(--platinum-edge), inset -1px -1px var(--platinum-glint),\n      inset 0 0 0 1px var(--platinum-rule);\n  }\n\n  & ::-webkit-scrollbar-thumb {\n    min-height: 24px;\n    min-width: 24px;\n    border: 1px solid var(--platinum-edge);\n    border-radius: 0;\n    background: var(--platinum-groove) center / 4px 7px no-repeat, var(--platinum-face);\n    box-shadow: var(--platinum-bevel);\n\n    &:horizontal {\n      background: linear-gradient(90deg, var(--platinum-raised), var(--platinum-panel));\n    }\n\n    &:hover {\n      background: var(--platinum-groove) center / 4px 7px no-repeat, var(--platinum-hover);\n\n      &:horizontal {\n        background: var(--platinum-hover);\n      }\n    }\n\n    &:active {\n      background: var(--platinum-groove) center / 4px 7px no-repeat, var(--platinum-selection);\n      box-shadow: inset 1px 1px var(--platinum-edge), inset -1px -1px var(--platinum-glint);\n\n      &:horizontal {\n        background: var(--platinum-selection);\n      }\n    }\n  }\n\n  & ::-webkit-scrollbar-corner {\n    background: var(--platinum-panel);\n    box-shadow: inset 1px 1px var(--platinum-edge);\n  }\n}\n\n@media (forced-colors: active) {\n  html[data-dsh-platinum] :is([data-composer-card], [role=\"dialog\"], [role=\"menu\"], [role=\"listbox\"]) {\n    outline: 1px solid CanvasText;\n  }\n}\n";
     const tokens = {
       "--dsw-alias-bg-base": {
         "light": "var(--platinum-paper)",

diff --git a/theme.css b/theme.css
@@ -69,9 +69,32 @@ html[data-dsh-platinum] {
   &:not([data-platform="darwin"]) [data-window-drag]:has(> [data-sidebar-toggle]) {
     box-sizing: border-box;
     height: var(--platinum-conversation-header-height, 52px);
-    margin: -6px calc(-1 * var(--dsh-sidebar-inline-padding, 8px)) 6px;
+    margin: -6px calc(-1 * var(--dsh-sidebar-inline-padding, 8px)) 12px;
     padding: 0 calc(var(--dsh-sidebar-inline-padding, 8px) + 6px);
     align-items: center;
+  }
+
+  &:not([data-platform="darwin"]) [class*="collapsed"]:has(> button[data-sidebar-toggle]) {
+    position: relative;
+    padding-top: 0;
+
+    &::before {
+      content: '';
+      position: absolute;
+      inset: 0 0 auto;
+      height: var(--platinum-conversation-header-height, 52px);
+      background: var(--platinum-panel);
+      border-bottom: 1px solid var(--platinum-edge);
+      box-shadow: inset 0 1px var(--platinum-glint);
+      pointer-events: none;
+    }
+
+    & > button[data-sidebar-toggle] {
+      position: relative;
+      z-index: 1;
+      margin-top: 9px;
+      margin-bottom: calc(var(--platinum-conversation-header-height, 52px) - 52px + 18px);
+    }
   }
 
   /* The flexible title group has room for the ridges after its real controls,
